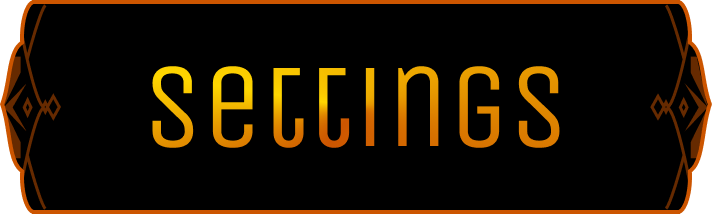
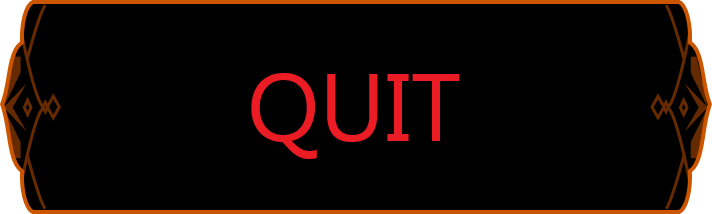
quit

Changed region(s): [[0.2163, 0.3084, 0.8034, 0.757]]

diff --git a/Physics/Physics/core/src/main/java/edu/cornell/cis3152/physics/MainMenuScreen.java b/Physics/Physics/core/src/main/java/edu/cornell/cis3152/physics/MainMenuScreen.java
@@ -1,6 +1,9 @@
 package edu.cornell.cis3152.physics;
 
 import com.badlogic.gdx.Gdx;
+import com.badlogic.gdx.Input;
+import com.badlogic.gdx.InputAdapter;
+import com.badlogic.gdx.InputMultiplexer;
 import com.badlogic.gdx.Screen;
 import com.badlogic.gdx.graphics.Color;
 import com.badlogic.gdx.graphics.g2d.TextureRegion;
@@ -182,7 +185,7 @@ public class MainMenuScreen implements Screen {
                 System.out.println("ImageButton pressed");
                 startClicked = true;
                 if (listener != null) {
-                    listener.exitScreen(MainMenuScreen.this, 1);
+                    listener.exitScreen(MainMenuScreen.this, 2);
                 }
                 return true;
             }
@@ -193,7 +196,7 @@ public class MainMenuScreen implements Screen {
 // Add the ImageButton to your stage
         stage.addActor(imageButton);
         stage.addActor(contButt1);
-       // stage.addActor(settingsButt1);
+        stage.addActor(settingsButt1);
 
 
         Texture topRightTexture = directory.getEntry("textButt", Texture.class);

diff --git a/Physics/Physics/core/src/main/java/edu/cornell/cis3152/physics/SoundEngine.java b/Physics/Physics/core/src/main/java/edu/cornell/cis3152/physics/SoundEngine.java
@@ -220,10 +220,14 @@ public class SoundEngine {
 
     public void dispose() {
         for (SoundEffect soundEffect : registeredSoundEffects.values()) {
-            soundEffect.dispose();
+            if (soundEffect != null) {
+                soundEffect.dispose();
+            }
         }
         for (Music music : registeredMusic.values()) {
-            music.dispose();
+            if (music != null) {
+                music.dispose();
+            }
         }
     }
 }

diff --git a/Physics/Physics/core/src/main/java/edu/cornell/cis3152/physics/GDXRoot.java b/Physics/Physics/core/src/main/java/edu/cornell/cis3152/physics/GDXRoot.java
@@ -172,9 +172,11 @@ public class GDXRoot extends Game implements ScreenListener {
                 }
                 current = Math.min(nextLevel - 1, levels.length - 1);
                 createSetGamePlayScene(current);
-            } else {
+            } else if (exitCode == 1) {
                 // Fallback: go to level select
                 swapCreateLevelSelect();
+            } else {
+                Gdx.app.exit();
             }
             return;
         }
